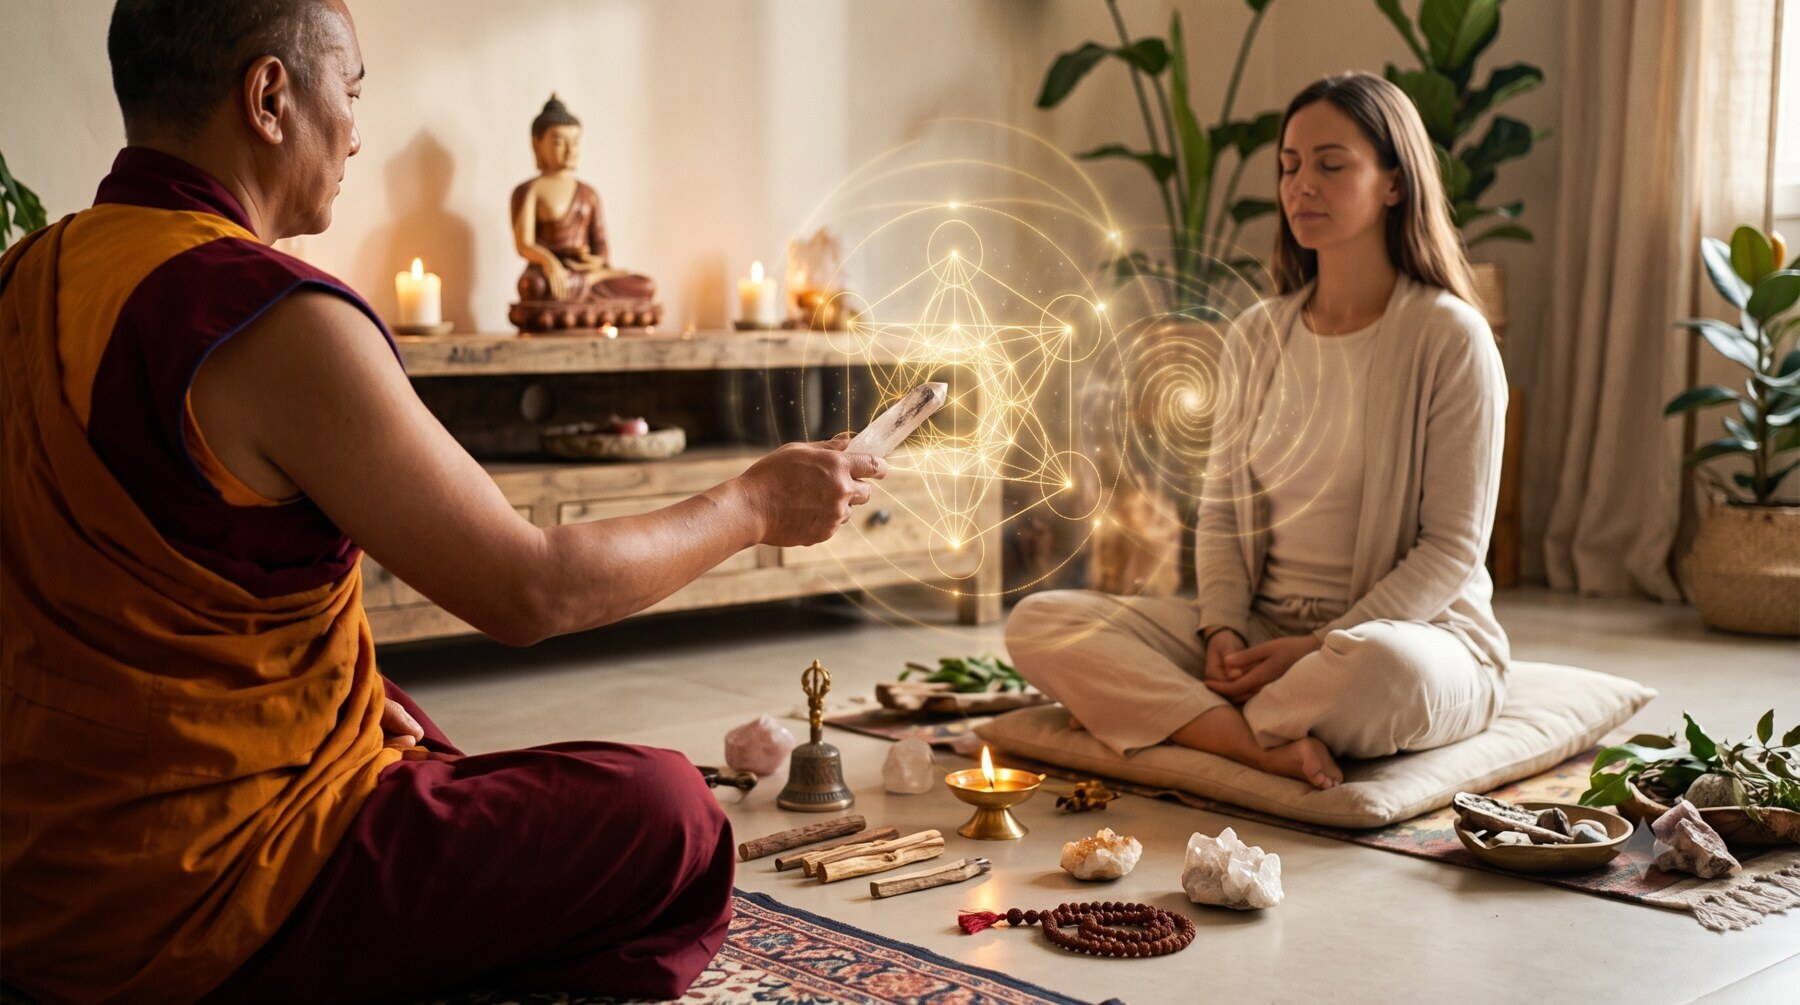
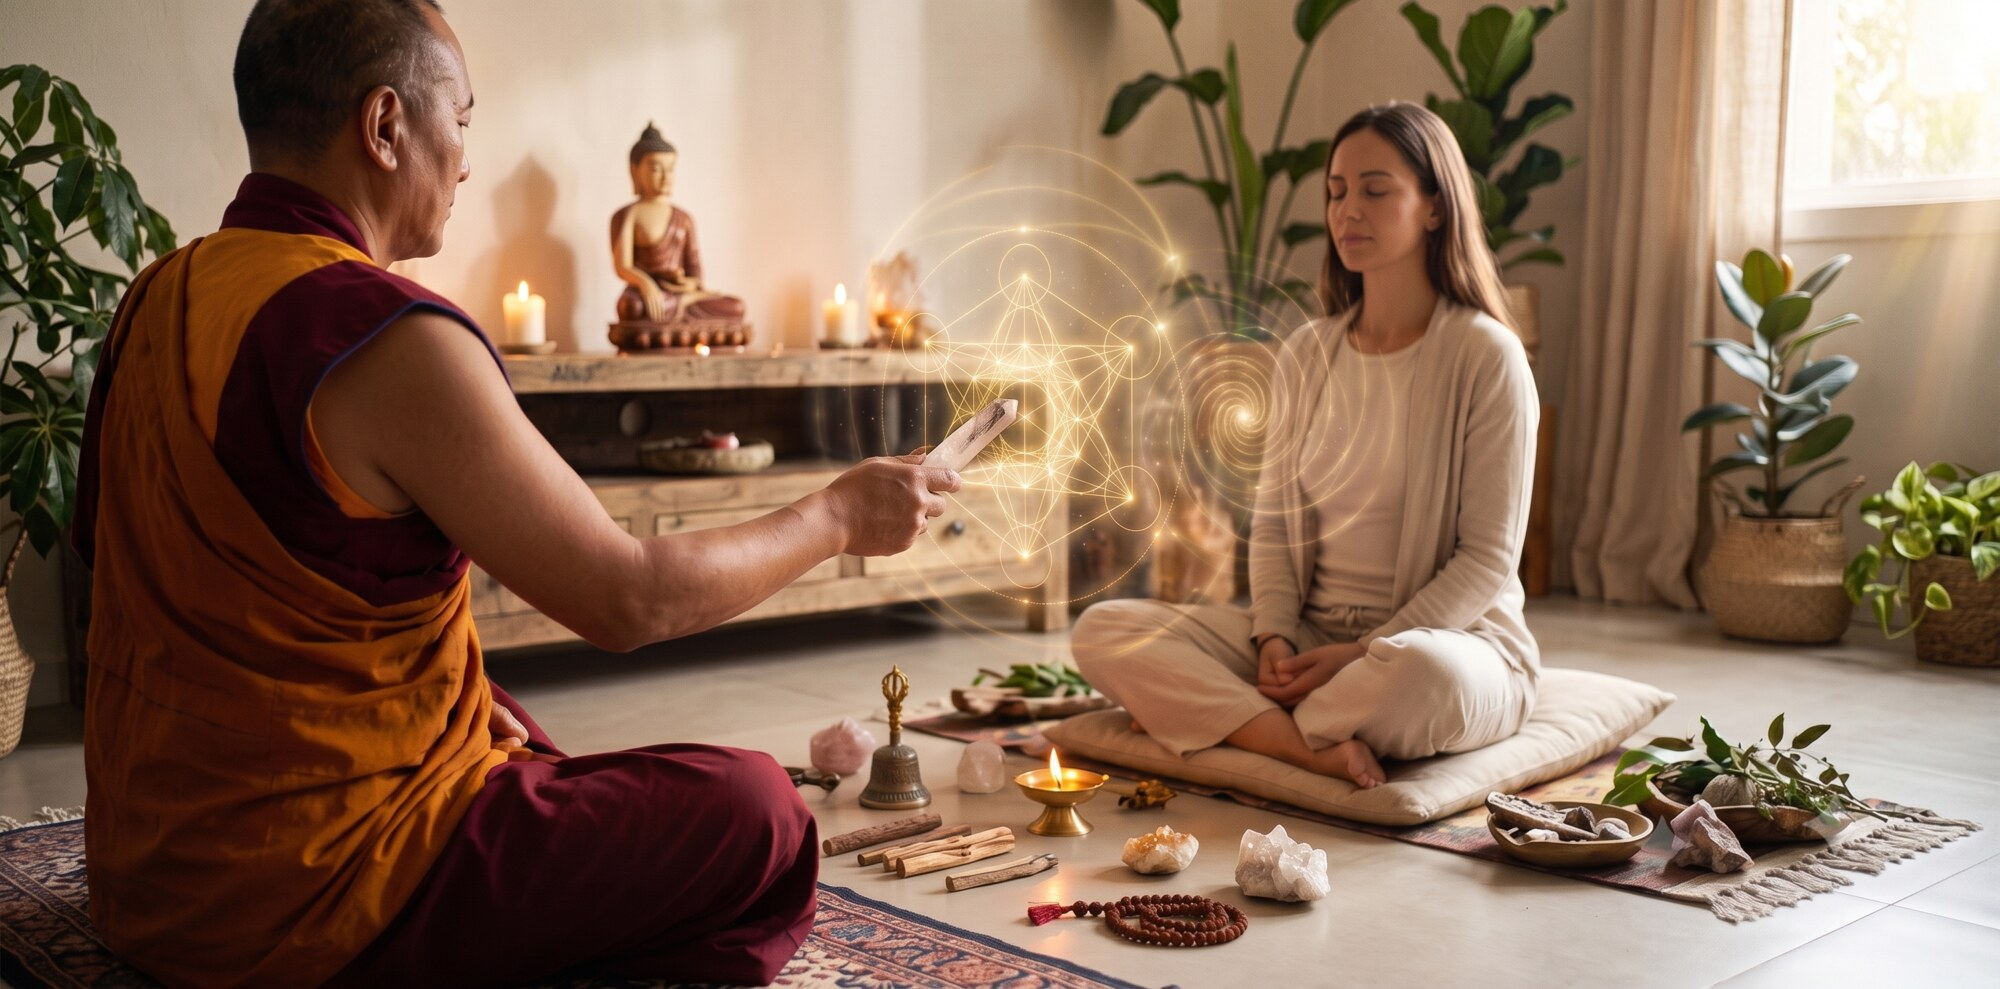
Finish rolling out correctly-sized hero images to all four slides
Numerology, Inner Child Healing and Lama Fera now have images
generated at the ~2:1 hero spec, matching Vastu. All four slides use
a clean object-cover fill with no blur backdrop; removed the now-
unused contain/fallback code path from Hero.tsx.

diff --git a/components/Hero.tsx b/components/Hero.tsx
@@ -6,13 +6,11 @@ import Link from 'next/link';
 import { AnimatePresence, motion } from 'framer-motion';
 import { services } from '@/lib/content';
 
-// fit: 'cover' once an image is supplied at the ~2:1 hero spec (fills edge-to-edge,
-// no blur bars); 'contain' is the safe fallback for images that aren't that shape yet.
-const HERO_IMAGES: Record<string, { src: string; alt: string; fit: 'cover' | 'contain' }> = {
-  vastu: { src: '/images/hero-vastu.jpg', alt: 'A model home set on a Vastu compass chart', fit: 'cover' },
-  numerology: { src: '/images/hero-numerology.jpg', alt: 'A numerology dial with numbers and patterns', fit: 'contain' },
-  'inner-child-healing': { src: '/images/hero-inner-child-healing.jpg', alt: 'A woman and her glowing inner child in a starlit garden', fit: 'contain' },
-  'lama-fera': { src: '/images/hero-lama-fera.jpg', alt: 'A healer performing an energy ritual over a meditating woman', fit: 'contain' },
+const HERO_IMAGES: Record<string, { src: string; alt: string }> = {
+  vastu: { src: '/images/hero-vastu.jpg', alt: 'A model home set on a Vastu compass chart' },
+  numerology: { src: '/images/hero-numerology.jpg', alt: 'A numerology dial with numbers and patterns' },
+  'inner-child-healing': { src: '/images/hero-inner-child-healing.jpg', alt: 'A woman and her glowing inner child in a starlit garden' },
+  'lama-fera': { src: '/images/hero-lama-fera.jpg', alt: 'A healer performing an energy ritual over a meditating woman' },
 };
 
 const slides = services.map((s) => ({
@@ -61,24 +59,13 @@ export default function Hero() {
             transition={{ duration: 0.9, ease: [0.22, 0.61, 0.36, 1] }}
             className="absolute inset-0"
           >
-            {slide.fit === 'contain' && (
-              // Blurred, scaled-up backdrop so the frame is always filled without cropping the real image
-              <Image
-                src={slide.src}
-                alt=""
-                aria-hidden
-                fill
-                sizes="100vw"
-                className="scale-125 object-cover opacity-70 blur-3xl"
-              />
-            )}
             <Image
               src={slide.src}
               alt={slide.alt}
               fill
               priority={index === 0}
               sizes="100vw"
-              className={slide.fit === 'cover' ? 'object-cover' : 'object-contain'}
+              className="object-cover"
             />
             <div
               className="absolute inset-0"
